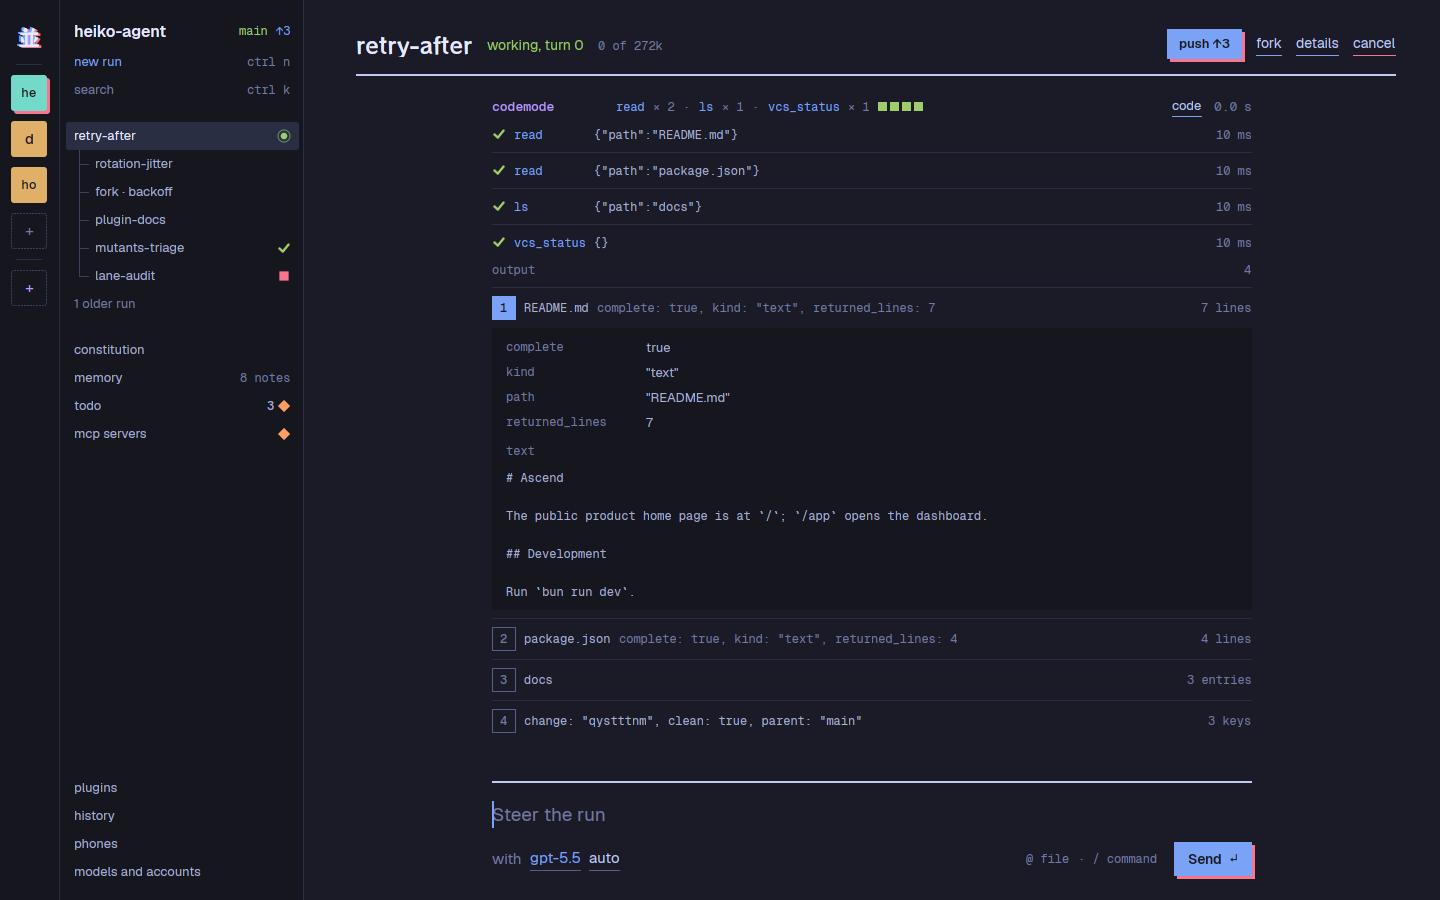
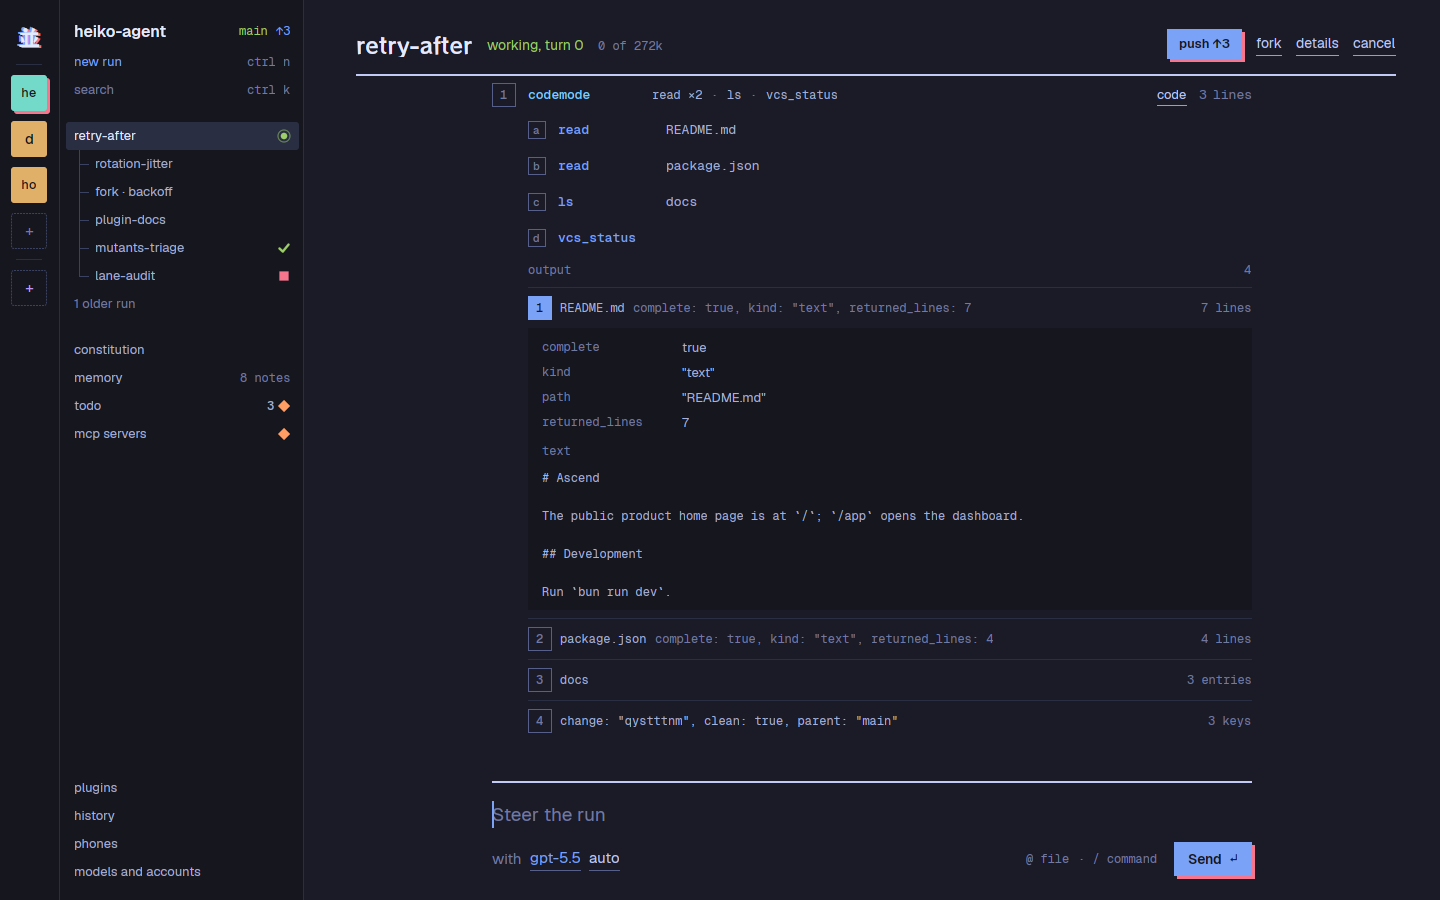
docs: screenshots of tool calls on the spine; ADR 0060 done

diff --git a/docs/decisions/0060-tool-calls-stand-on-a-spine.md b/docs/decisions/0060-tool-calls-stand-on-a-spine.md
@@ -1,6 +1,6 @@
 # 0060: Tool calls stand on a spine, in one language
 
-- Status: accepted, being implemented. Follows
+- Status: accepted. Follows
   [0057](0057-the-interface-is-flat-and-printed.md) ("A tool call is a
   line") and [0045](0045-everything-is-a-plugin.md) (a tool's plugin
   draws its card).
@@ -145,12 +145,18 @@ steps (`todo_file`, the issue's title, its id and an undo). Plugin
 
 ## Steps
 
+All done on 2026-11-16.
+
 1. The kinds: `ToolKind`, the theme's colors, `CardView::kind`, the Luau
    tool's `kind`, and run in cyan.
 2. The spine: stretches, the head line and its fold, the numbered
    squares and stepping off.
-3. One line: subjects instead of JSON, receipts in counts, the whole
-   line opens, and `+ N more <noun>`.
-4. Codemode's nested calls as lettered steps.
+3. One line: receipts in counts, the whole line opens, bodies that fold,
+   and no label on the band.
+4. Codemode's nested calls as lettered steps (`Node::Step`, `ui.step`),
+   with the subject a top-level call shows.
 5. Todo's calls as steps.
-6. Screenshots.
+6. Screenshots of the screens with calls.
+
+Left for later: codemode's output items still carry numbered squares,
+which read like steps.
